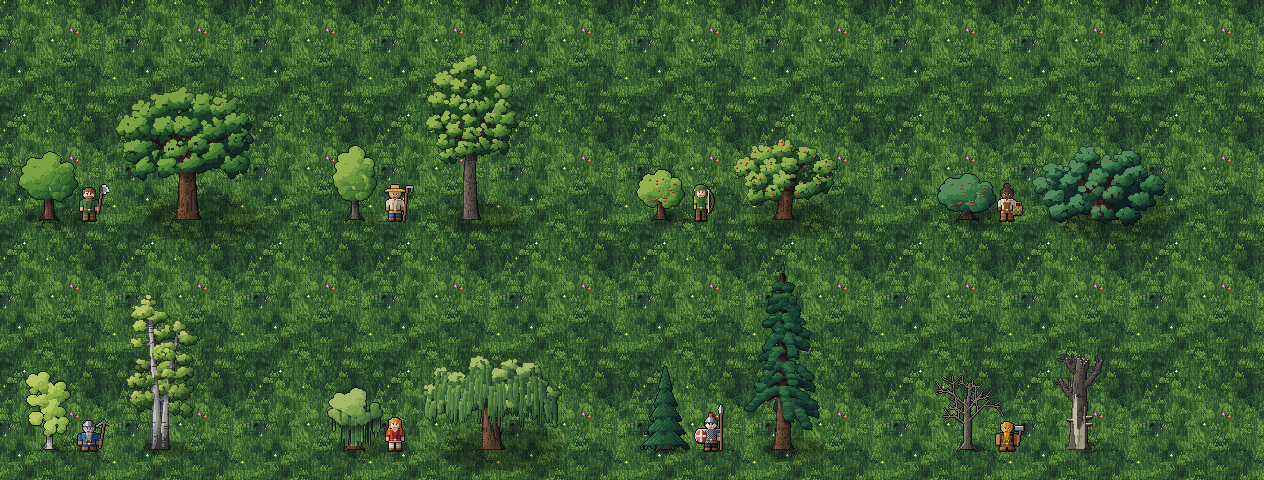
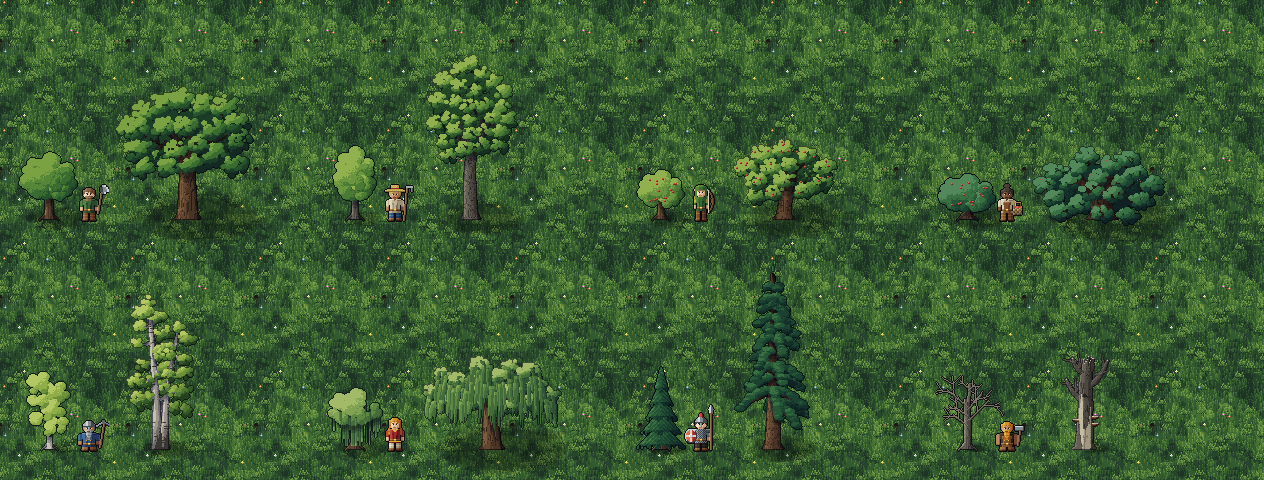
feat(mockups): magical trees mature and elder, today's pine back as the young pine
- Use today's cone pine with the young tweak as the young pine in mockups/big-trees/probe/trees.mjs.
- Add mature heartwood, frostheart, moonwood, ironwood, emberwood, soulwood, witchwood and bonewood that keep glow, moon, sparks, frost and tufts.
- Add an elder form of each with surface roots, a hollow, moss or glowing veins, dead crown limbs and a twin-leader frostheart.
- Add a night render with banded glow light in probe/build.mjs and a Magical view with Light and Look at places in view.js.

Claude-Session: 89d05c17-dd71-48ff-b6a9-40bf3244e810
T3-Thread: thread:delegated-task:command%3Amcp%3A06ad9ae2-9298-40c6-bc72-42ad76243ef4%3Adelegate-task%3Acc0a429d-88f2-4c59-a151-f19e36efae18

Changed region(s): [[0.4937, 0.5625, 0.6479, 0.9375], [0.8331, 0.7188, 0.8948, 0.9375]]

diff --git a/mockups/big-trees/index.html b/mockups/big-trees/index.html
@@ -16,15 +16,17 @@
   .pane { position: relative; margin: 0; width: 100%; height: 100%; overflow: hidden; outline: 1px solid var(--frame); background: var(--bg); }
   .pane img { position: absolute; left: 0; top: 0; transform-origin: 0 0; image-rendering: pixelated; user-select: none; -webkit-user-drag: none; max-width: none; }
   #mock .grp[hidden] { display: none; }
+  #mock .brk { flex-basis: 100%; height: 0; }
 </style>
 </head>
 <body>
 <main id="stage"><figure class="pane"><img alt="" draggable="false"></figure></main>
 <header id="mock">
   <div class="mrow"><strong>Big trees</strong><button id="mockhide">Hide · `</button></div>
-  <div class="mrow"><span class="grp" data-k="show" data-def="trees"><span class="lab">Show</span><button data-v="trees">Young and mature</button><button data-v="forest">Forest</button></span></div>
-  <div class="mrow"><span class="grp" data-k="young" data-def="new"><span class="lab">Young</span><button data-v="new">Tweaked</button><button data-v="today">Today</button></span><span class="grp" data-k="cut" data-def="on"><span class="lab">Cutaway</span><button data-v="on">On</button><button data-v="off">Off</button></span><span class="grp" data-k="zoom" data-def="2"><span class="lab">Zoom</span><button data-v="1">1×</button><button data-v="2">2×</button><button data-v="3">3×</button></span></div>
+  <div class="mrow"><span class="grp" data-k="show" data-def="trees"><span class="lab">Show</span><button data-v="trees">Young and mature</button><button data-v="magic">Magical</button><button data-v="forest">Forest</button></span></div>
+  <div class="mrow"><span class="grp" data-k="young" data-def="new"><span class="lab">Young</span><button data-v="new">Tweaked</button><button data-v="today">Today</button></span><span class="grp" data-k="light" data-def="day"><span class="lab">Light</span><button data-v="day">Day</button><button data-v="night">Night</button></span><span class="grp" data-k="cut" data-def="on"><span class="lab">Cutaway</span><button data-v="on">On</button><button data-v="off">Off</button></span><span class="grp" data-k="zoom" data-def="2"><span class="lab">Zoom</span><button data-v="1">1×</button><button data-v="2">2×</button><button data-v="3">3×</button></span></div>
   <div class="mrow"><span class="grp" data-k="at" data-def="all"><span class="lab">Look at</span><button data-v="all">All</button><button data-v="oak">Oak</button><button data-v="ash">Ash</button><button data-v="apple">Apple</button><button data-v="yew">Yew</button><button data-v="birch">Birch</button><button data-v="willow">Willow</button><button data-v="pine">Pine</button><button data-v="dead">Dead</button></span></div>
+  <div class="mrow"><span class="grp" data-k="see" data-def="all"><span class="lab">Look at</span><button data-v="all">All</button><button data-v="heartwood">Heartwood</button><button data-v="frostheart">Frostheart</button><button data-v="moonwood">Moonwood</button><button data-v="ironwood">Ironwood</button><button data-v="emberwood">Emberwood</button><button data-v="soulwood">Soulwood</button><button data-v="witchwood">Witchwood</button><button data-v="bonewood">Bonewood</button><span class="brk"></span><span class="lab">Elder</span><button data-v="heartwood-elder">Heartwood</button><button data-v="frostheart-elder">Frostheart</button><button data-v="moonwood-elder">Moonwood</button><button data-v="ironwood-elder">Ironwood</button><button data-v="emberwood-elder">Emberwood</button><button data-v="soulwood-elder">Soulwood</button><button data-v="witchwood-elder">Witchwood</button><button data-v="bonewood-elder">Bonewood</button></span></div>
 </header>
 <script src="view.js"></script>
 </body>

diff --git a/mockups/big-trees/view.js b/mockups/big-trees/view.js
@@ -7,18 +7,22 @@
   const at = document.querySelector('.grp[data-k="at"]');
   const young = document.querySelector('.grp[data-k="young"]');
   const cut = document.querySelector('.grp[data-k="cut"]');
+  const light = document.querySelector('.grp[data-k="light"]');
+  const see = document.querySelector('.grp[data-k="see"]');
   const drift = { x: 0, y: 0 };
   let ui = null;
 
-  const size = () => (ui.state.show === 'forest' ? cfg.forest : cfg.sheet);
+  const size = () => (ui.state.show === 'forest' ? cfg.forest : ui.state.show === 'magic' ? cfg.magic : cfg.sheet);
   const source = () => {
     const { show, young: y, cut: c } = ui.state;
     if (show === 'forest') return c === 'on' ? 'img/forest.webp' : 'img/forest-open.webp';
+    if (show === 'magic') return ui.state.light === 'night' ? 'img/magic-night.webp' : 'img/magic.webp';
     return y === 'today' ? 'img/species-today.webp' : 'img/species.webp';
   };
   const centre = () => {
     const [w, h] = size();
     if (ui.state.show === 'trees' && cfg.at[ui.state.at]) return cfg.at[ui.state.at];
+    if (ui.state.show === 'magic' && cfg.magicAt[ui.state.see]) return cfg.magicAt[ui.state.see];
     return [w / 2, h / 2];
   };
 
@@ -33,17 +37,19 @@
   }
 
   function apply() {
-    const forest = ui.state.show === 'forest';
-    at.hidden = forest;
-    young.hidden = forest;
-    cut.hidden = !forest;
+    const { show } = ui.state;
+    at.hidden = show !== 'trees';
+    young.hidden = show !== 'trees';
+    cut.hidden = show !== 'forest';
+    light.hidden = show !== 'magic';
+    see.hidden = show !== 'magic';
     const src = source();
     if (img.getAttribute('src') !== src) img.src = src;
     draw();
   }
 
   ui = F4X.bar((state, key) => {
-    if (key === 'at' || key === 'show') {
+    if (key === 'at' || key === 'see' || key === 'show') {
       drift.x = 0;
       drift.y = 0;
     }
